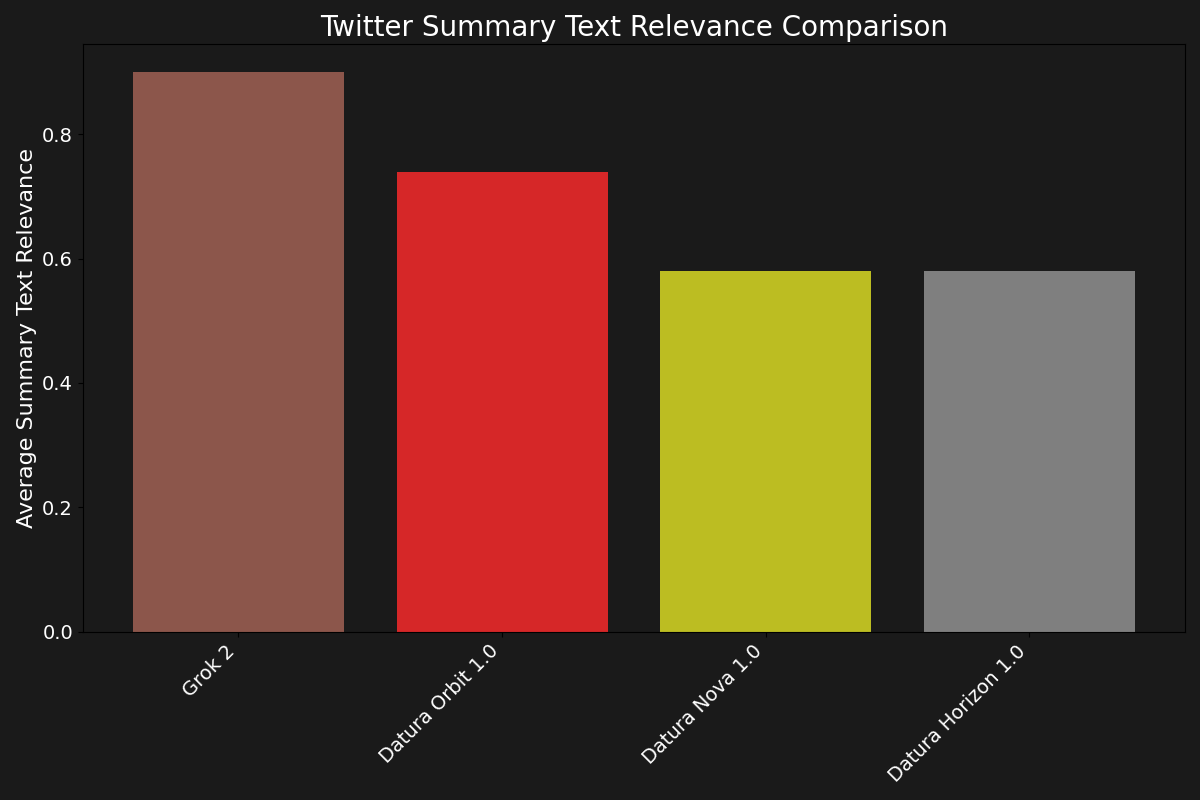
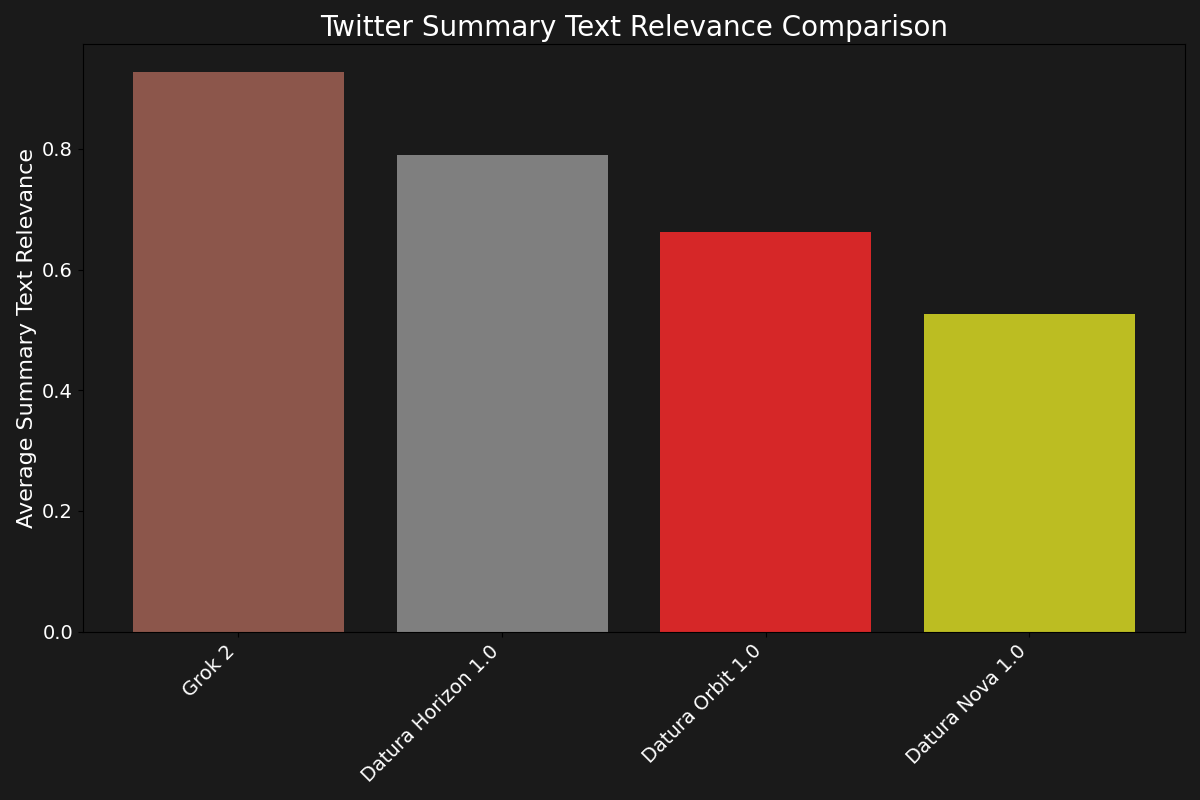
feat: benchmark

diff --git a/scoring/main.py b/scoring/main.py
@@ -189,7 +189,9 @@ async def score_results(results, provider):
 
     # Write Markdown file
     md_file_path = os.path.join(
-        os.path.dirname(current_dir), "results", f"{provider.get("name")}_benchmark.md"
+        os.path.dirname(current_dir),
+        "docs/benchmark",
+        f"{provider.get("name")}_benchmark.md",
     )
 
     with open(md_file_path, "w") as f:
@@ -203,7 +205,7 @@ async def score_results(results, provider):
 
     output_file_path = os.path.join(
         os.path.dirname(current_dir),
-        "results",
+        "docs/benchmark",
         f"{provider.get("name")}_benchmark.json",
     )
 

diff --git a/scoring/parser.py b/scoring/parser.py
@@ -128,7 +128,6 @@ def parse_provider(
                     print("Error decoding line:", line)
             items = [item for item in items if item["question"] in perplexity_questions]
             items = sorted(items, key=lambda x: x["question"])
-            items = items[:20]
 
             for item in items:
                 parsed_item = parse_generic(item)
@@ -186,5 +185,5 @@ twitter_results = parse_provider(
 )
 
 web_results = parse_provider(
-    providers=WEB_PROVIDERS, provider_with_least_results="datura_nova"
+    providers=WEB_PROVIDERS, provider_with_least_results="perplexity"
 )

diff --git a/scoring/summary_relevance.py b/scoring/summary_relevance.py
@@ -86,6 +86,5 @@ class SummaryRelevanceModel:
             return results
         except Exception as e:
             error_message = f"Summary Relevance get_rewards: {str(e)}"
-            tb_str = traceback.format_exception(type(e), e, e.__traceback__)
-            print("\n".join(tb_str) + error_message)
+            print(error_message)
             return results

diff --git a/docs/benchmark/web_benchmark.md b/docs/benchmark/web_benchmark.md
@@ -1,0 +1,14 @@
+## 📊 Results Table
+
+Below is a table showcasing the results of each provider in various aspects of our scoring mechanism:
+
+| Provider            | Summary Text Relevance | Link Content Relevance             | Performance (s)  | Embedding Similarity   | Expected Answer Relevance 
+|---------------------|------------------------|------------------------------------|------------------|------------------------|---------------------------
+| Andi Search         | 23.30%                 | 62.06%                             | 6.68s            | 20.70%                 | 18.88%                    |
+| You.com             | 37.64%                 | 60.11%                             | 1.73s            | 54.77%                 | 50.40%                    |
+| OpenAI ChatGPT      | 90.70%                 | 61.36%                             | 2.23s            | 73.27%                 | 71.38%                    |
+| Perplexity          | 91.82%                 | 59.63%                             | 5.68s            | 73.30%                 | 70.29%                    |
+| Google Gemini       | 71.58%                 | 53.42%                             | 1.81s            | 60.92%                 | 56.90%                    |
+| Datura Nova 1.0     | 83.80%                 | 71.22%                             | 8.84s            | 72.20%                 | 69.56%                    |
+| Datura Orbit 1.0    | 88.03%                 | 77.32%                             | 19.40s           | 72.53%                 | 69.86%                    |
+| Datura Horizon 1.0  | 92.57%                 | 80.46%                             | 38.35s           | 72.60%                 | 69.69%                    |

diff --git a/docs/benchmark/twitter_benchmark.md b/docs/benchmark/twitter_benchmark.md
@@ -1,0 +1,10 @@
+## 📊 Results Table
+
+Below is a table showcasing the results of each provider in various aspects of our scoring mechanism:
+
+| Provider            | Summary Text Relevance | Link Content Relevance             | Performance (s)  | Embedding Similarity   | Expected Answer Relevance 
+|---------------------|------------------------|------------------------------------|------------------|------------------------|---------------------------
+| Grok 2              | 92.68%                 | 29.95%                             | 30.20s           | 76.44%                 | 75.37%                    |
+| Datura Nova 1.0     | 52.68%                 | 23.43%                             | 8.59s            | 66.00%                 | 59.20%                    |
+| Datura Orbit 1.0    | 66.19%                 | 40.63%                             | 24.59s           | 68.18%                 | 62.37%                    |
+| Datura Horizon 1.0  | 79.00%                 | 44.92%                             | 31.45s           | 71.72%                 | 65.47%                    |
